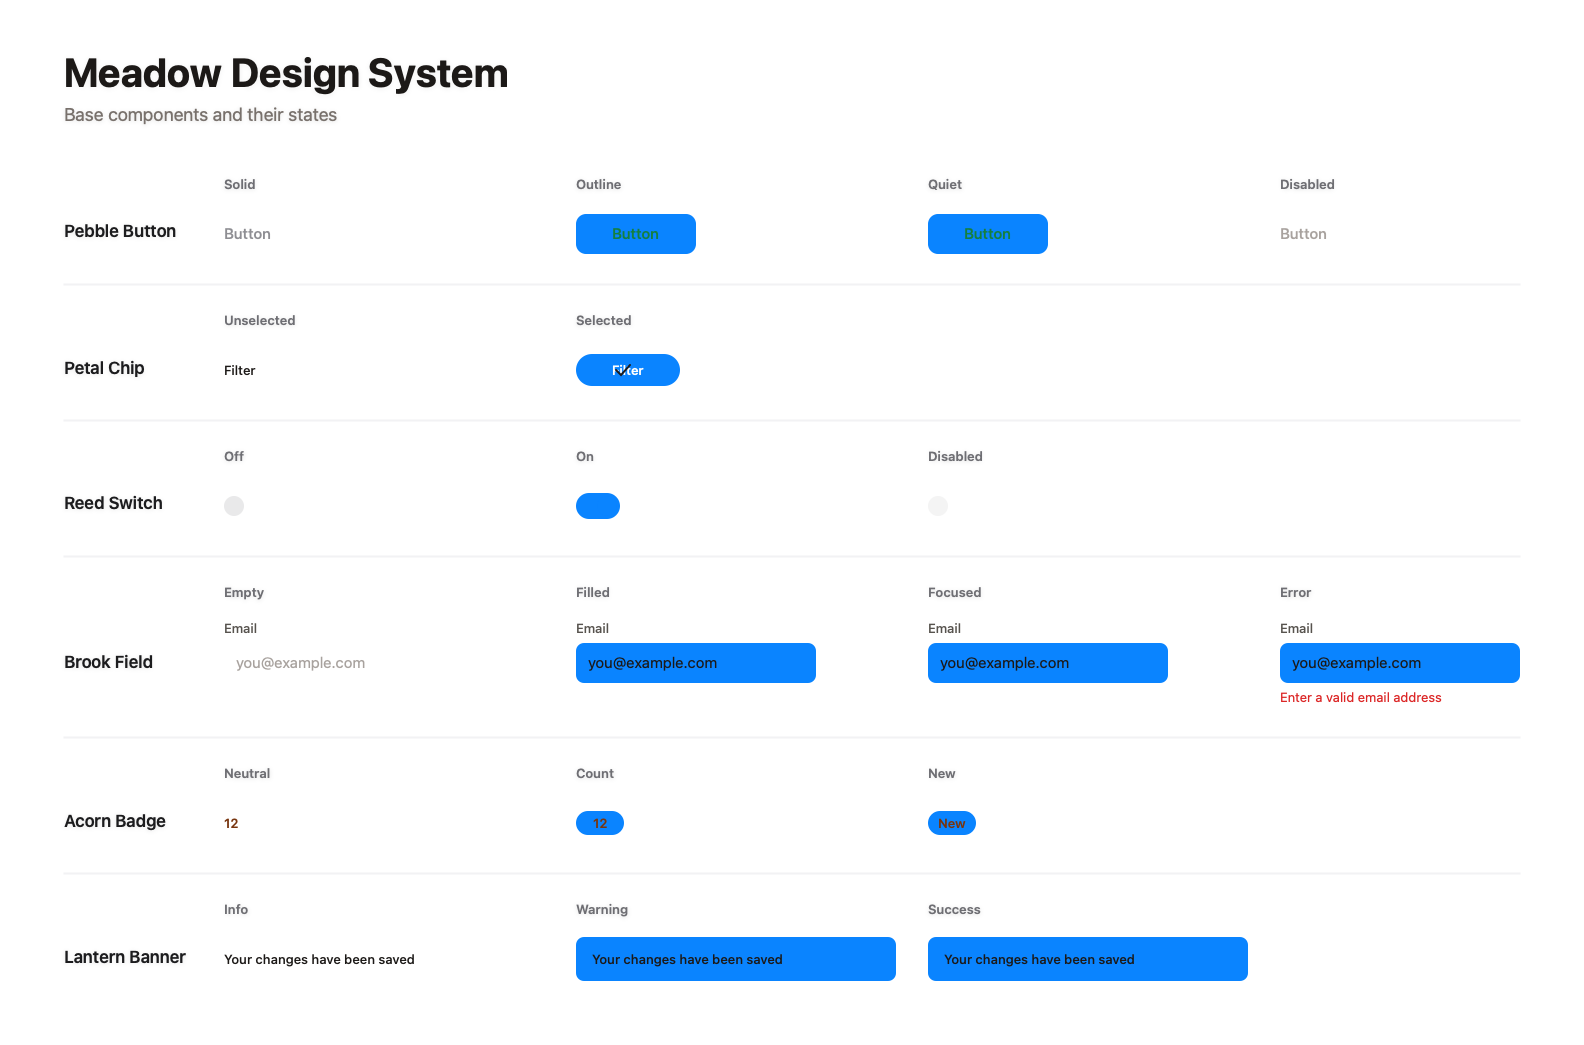
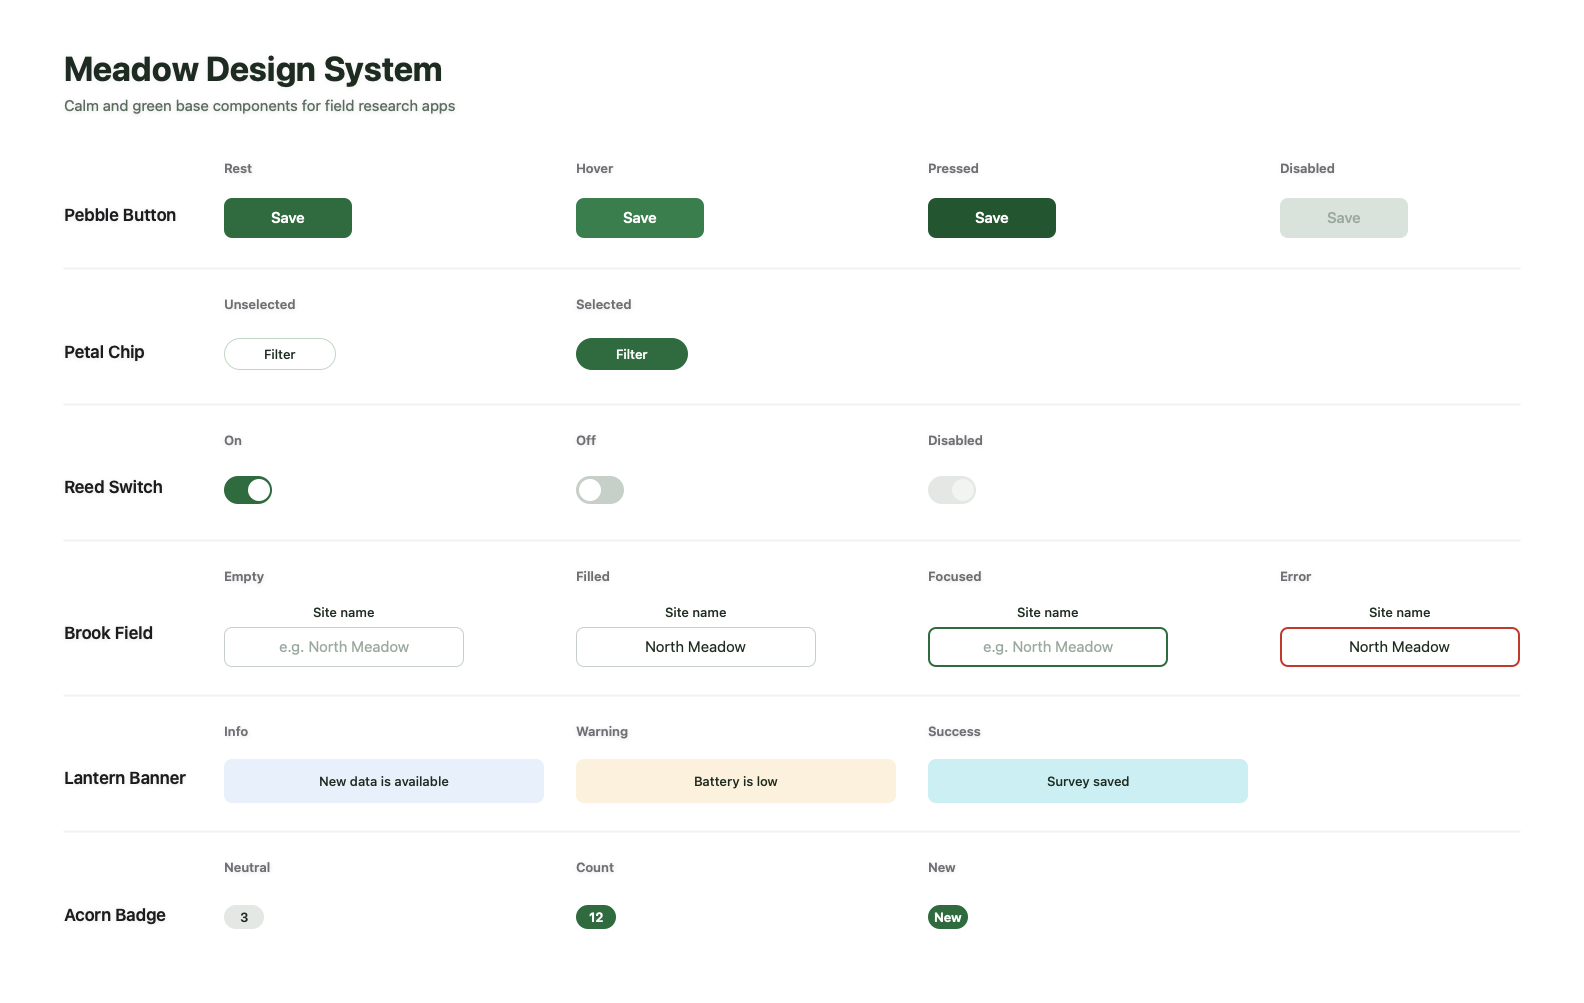
queue: lookup audit with the Meadow rerun (84.4)

diff --git a/docs/progress/log.md b/docs/progress/log.md
@@ -22404,5 +22404,5 @@ the ghost, and pinching in seemed to stop short.
 
 - "look up ..." / "search the web for ..." sends Ask through a reader that never sees the document (`AskLookup`): its first turn writes at most two searches from the person's words alone, app code searches (Brave Search's API, key in Settings > Ask, kept in the keychain) and reads the first results' pages in the throwaway web view, and its second turn returns a schema-held list (topic, facts with exact values, up to 24 things) that code checks. The builder sees only that list, quoted, and while it is in play makes new things only (no run_command, change_part, clip edits; set_layer/apply_style/set_layout on $N only). With no key: "Searching isn't set up in Settings."
 - Settings: the web switch is now "Use the web when you ask" (pages and searches), with Search key and Get a Key under it. Walk setup `askSearch` points Ask at a loopback stand-in.
-- Eval: lookup-injection 83.2 with every injection check passing; lookup-kit 28.5 before the reader's facts field (the builder's fills, not the lookup), rerun deferred by a person at the Mac. Walks: ask-search-not-set-up-walk, ask-web-settings-walk.
+- Eval: lookup-injection 83.2 with every injection check passing; lookup-kit 28.5 before the reader's facts field, 84.4 after (Meadow Green carried through). Walks: ask-search-not-set-up-walk, ask-web-settings-walk.
 - Next: a real search with a key; same-named controls in a page mock (a-page-mock-makes-same-named-controls-copies-of).
